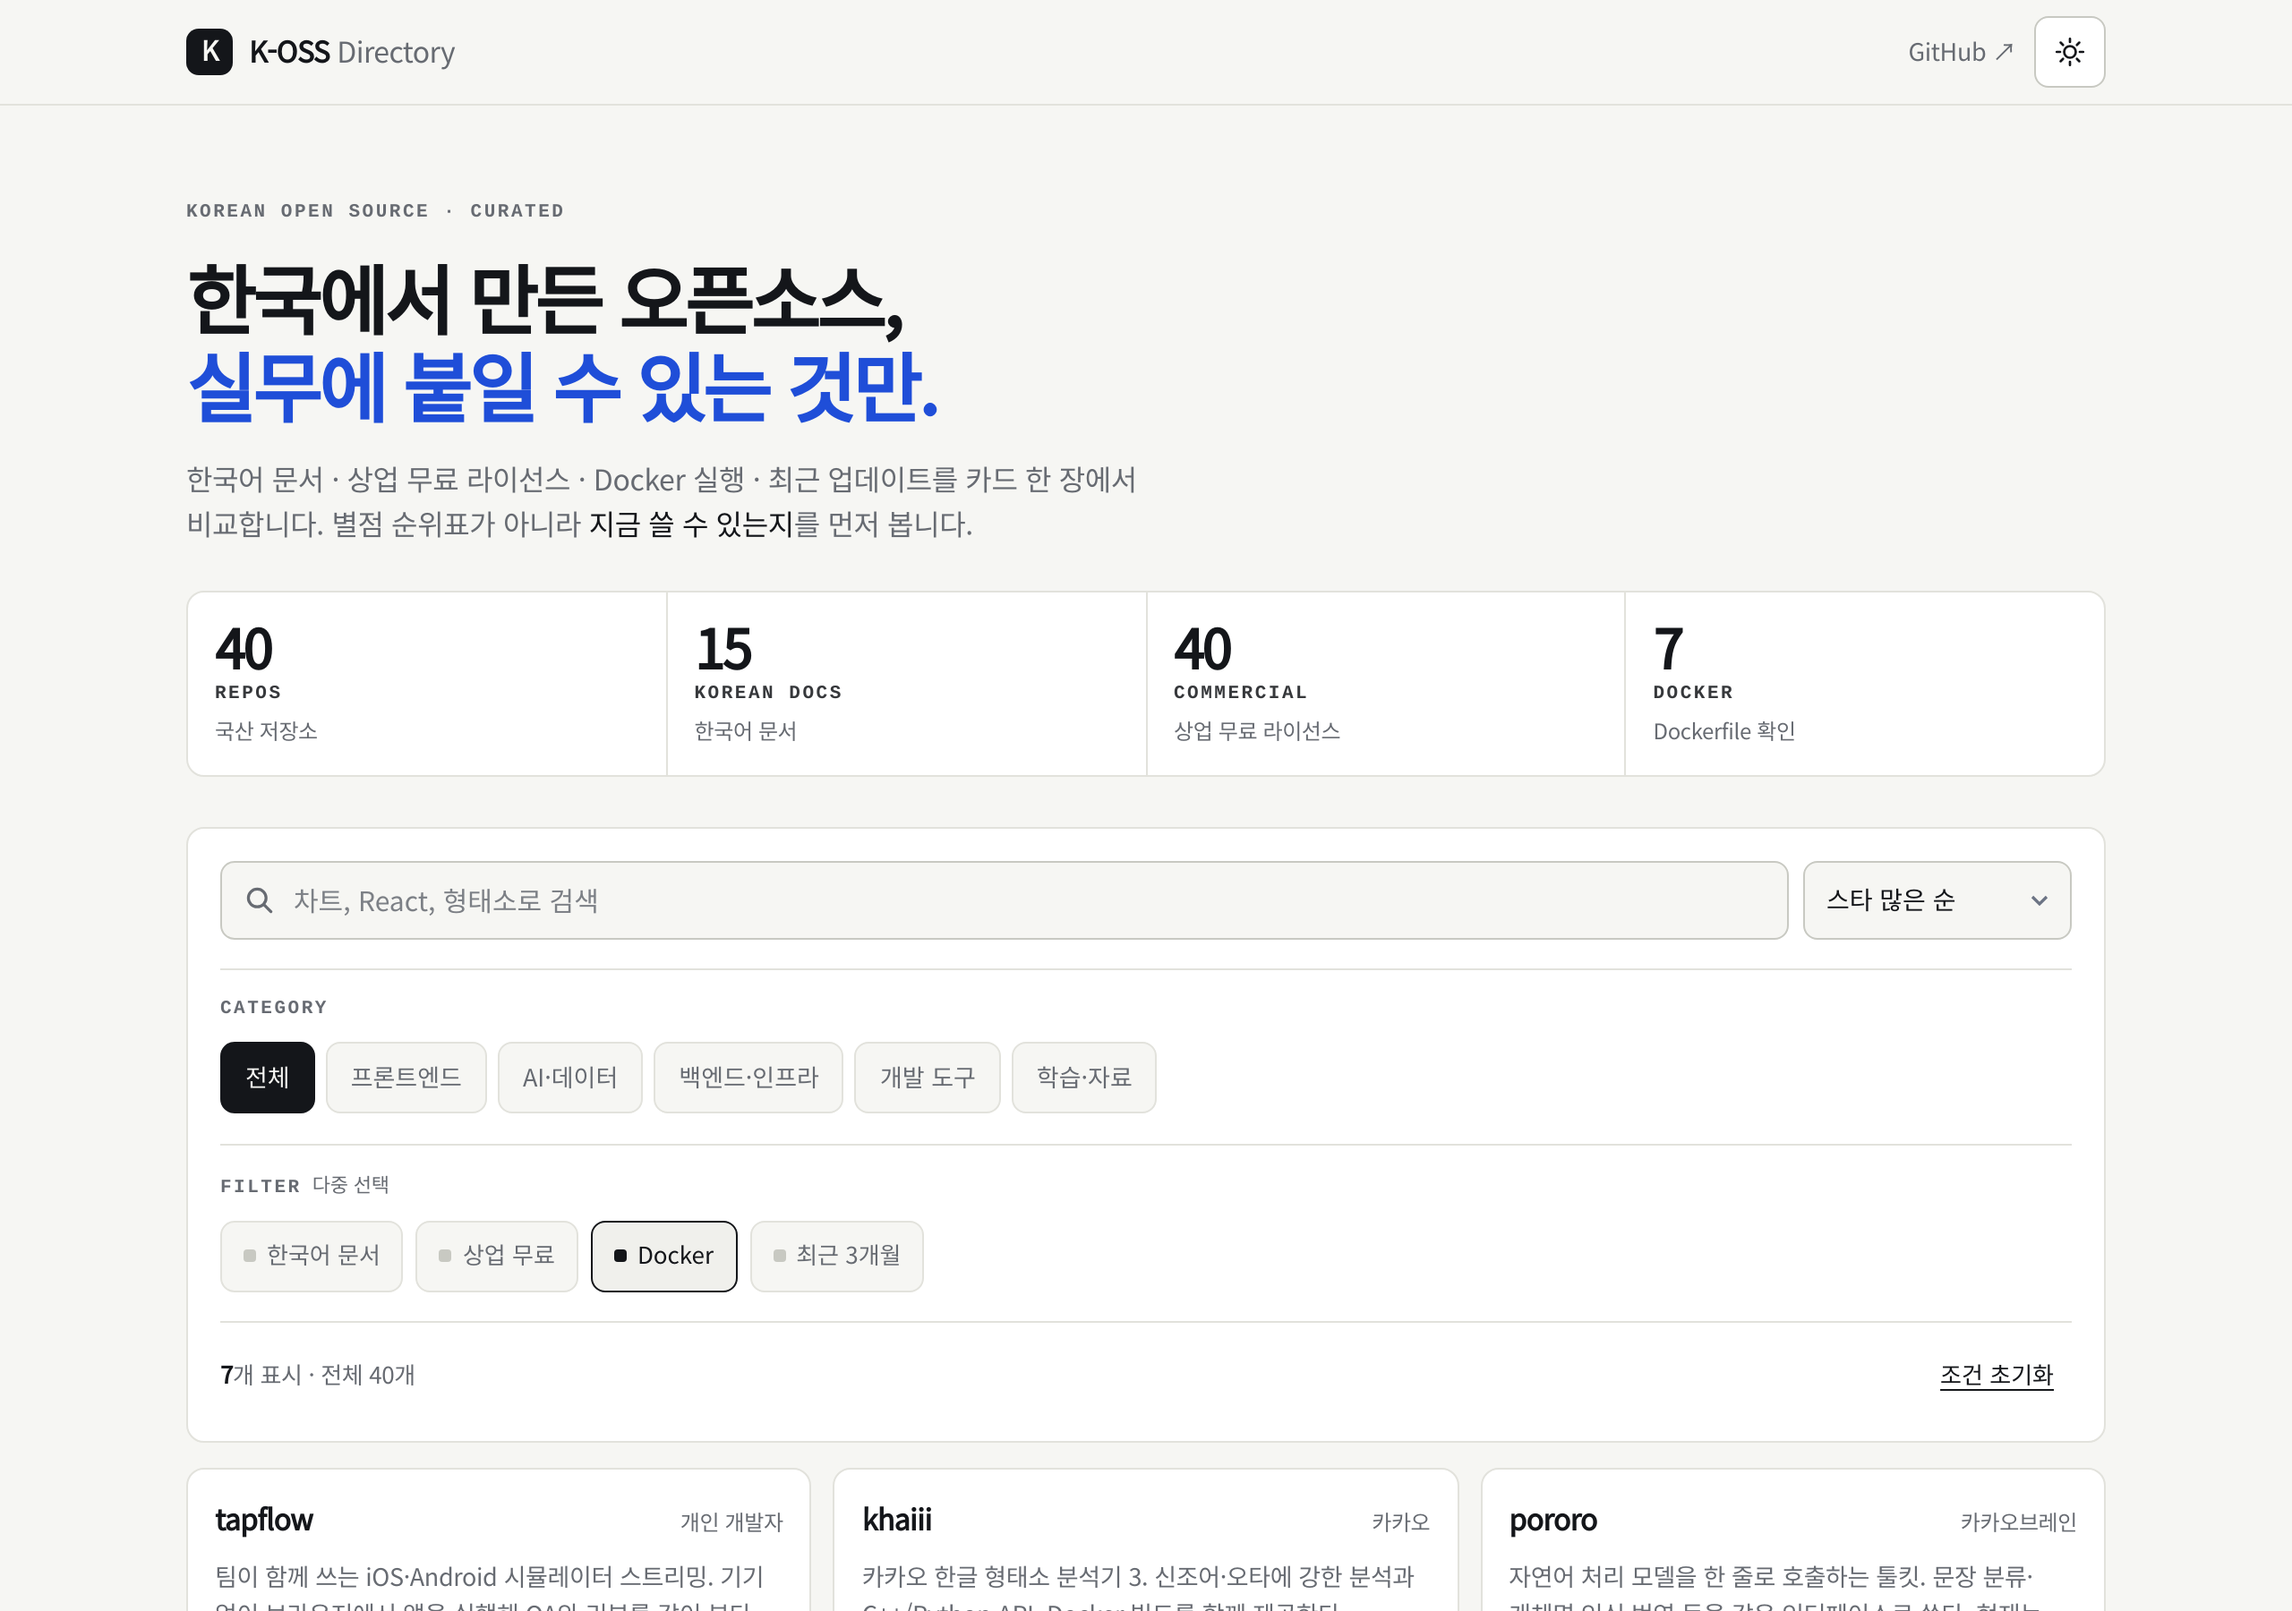
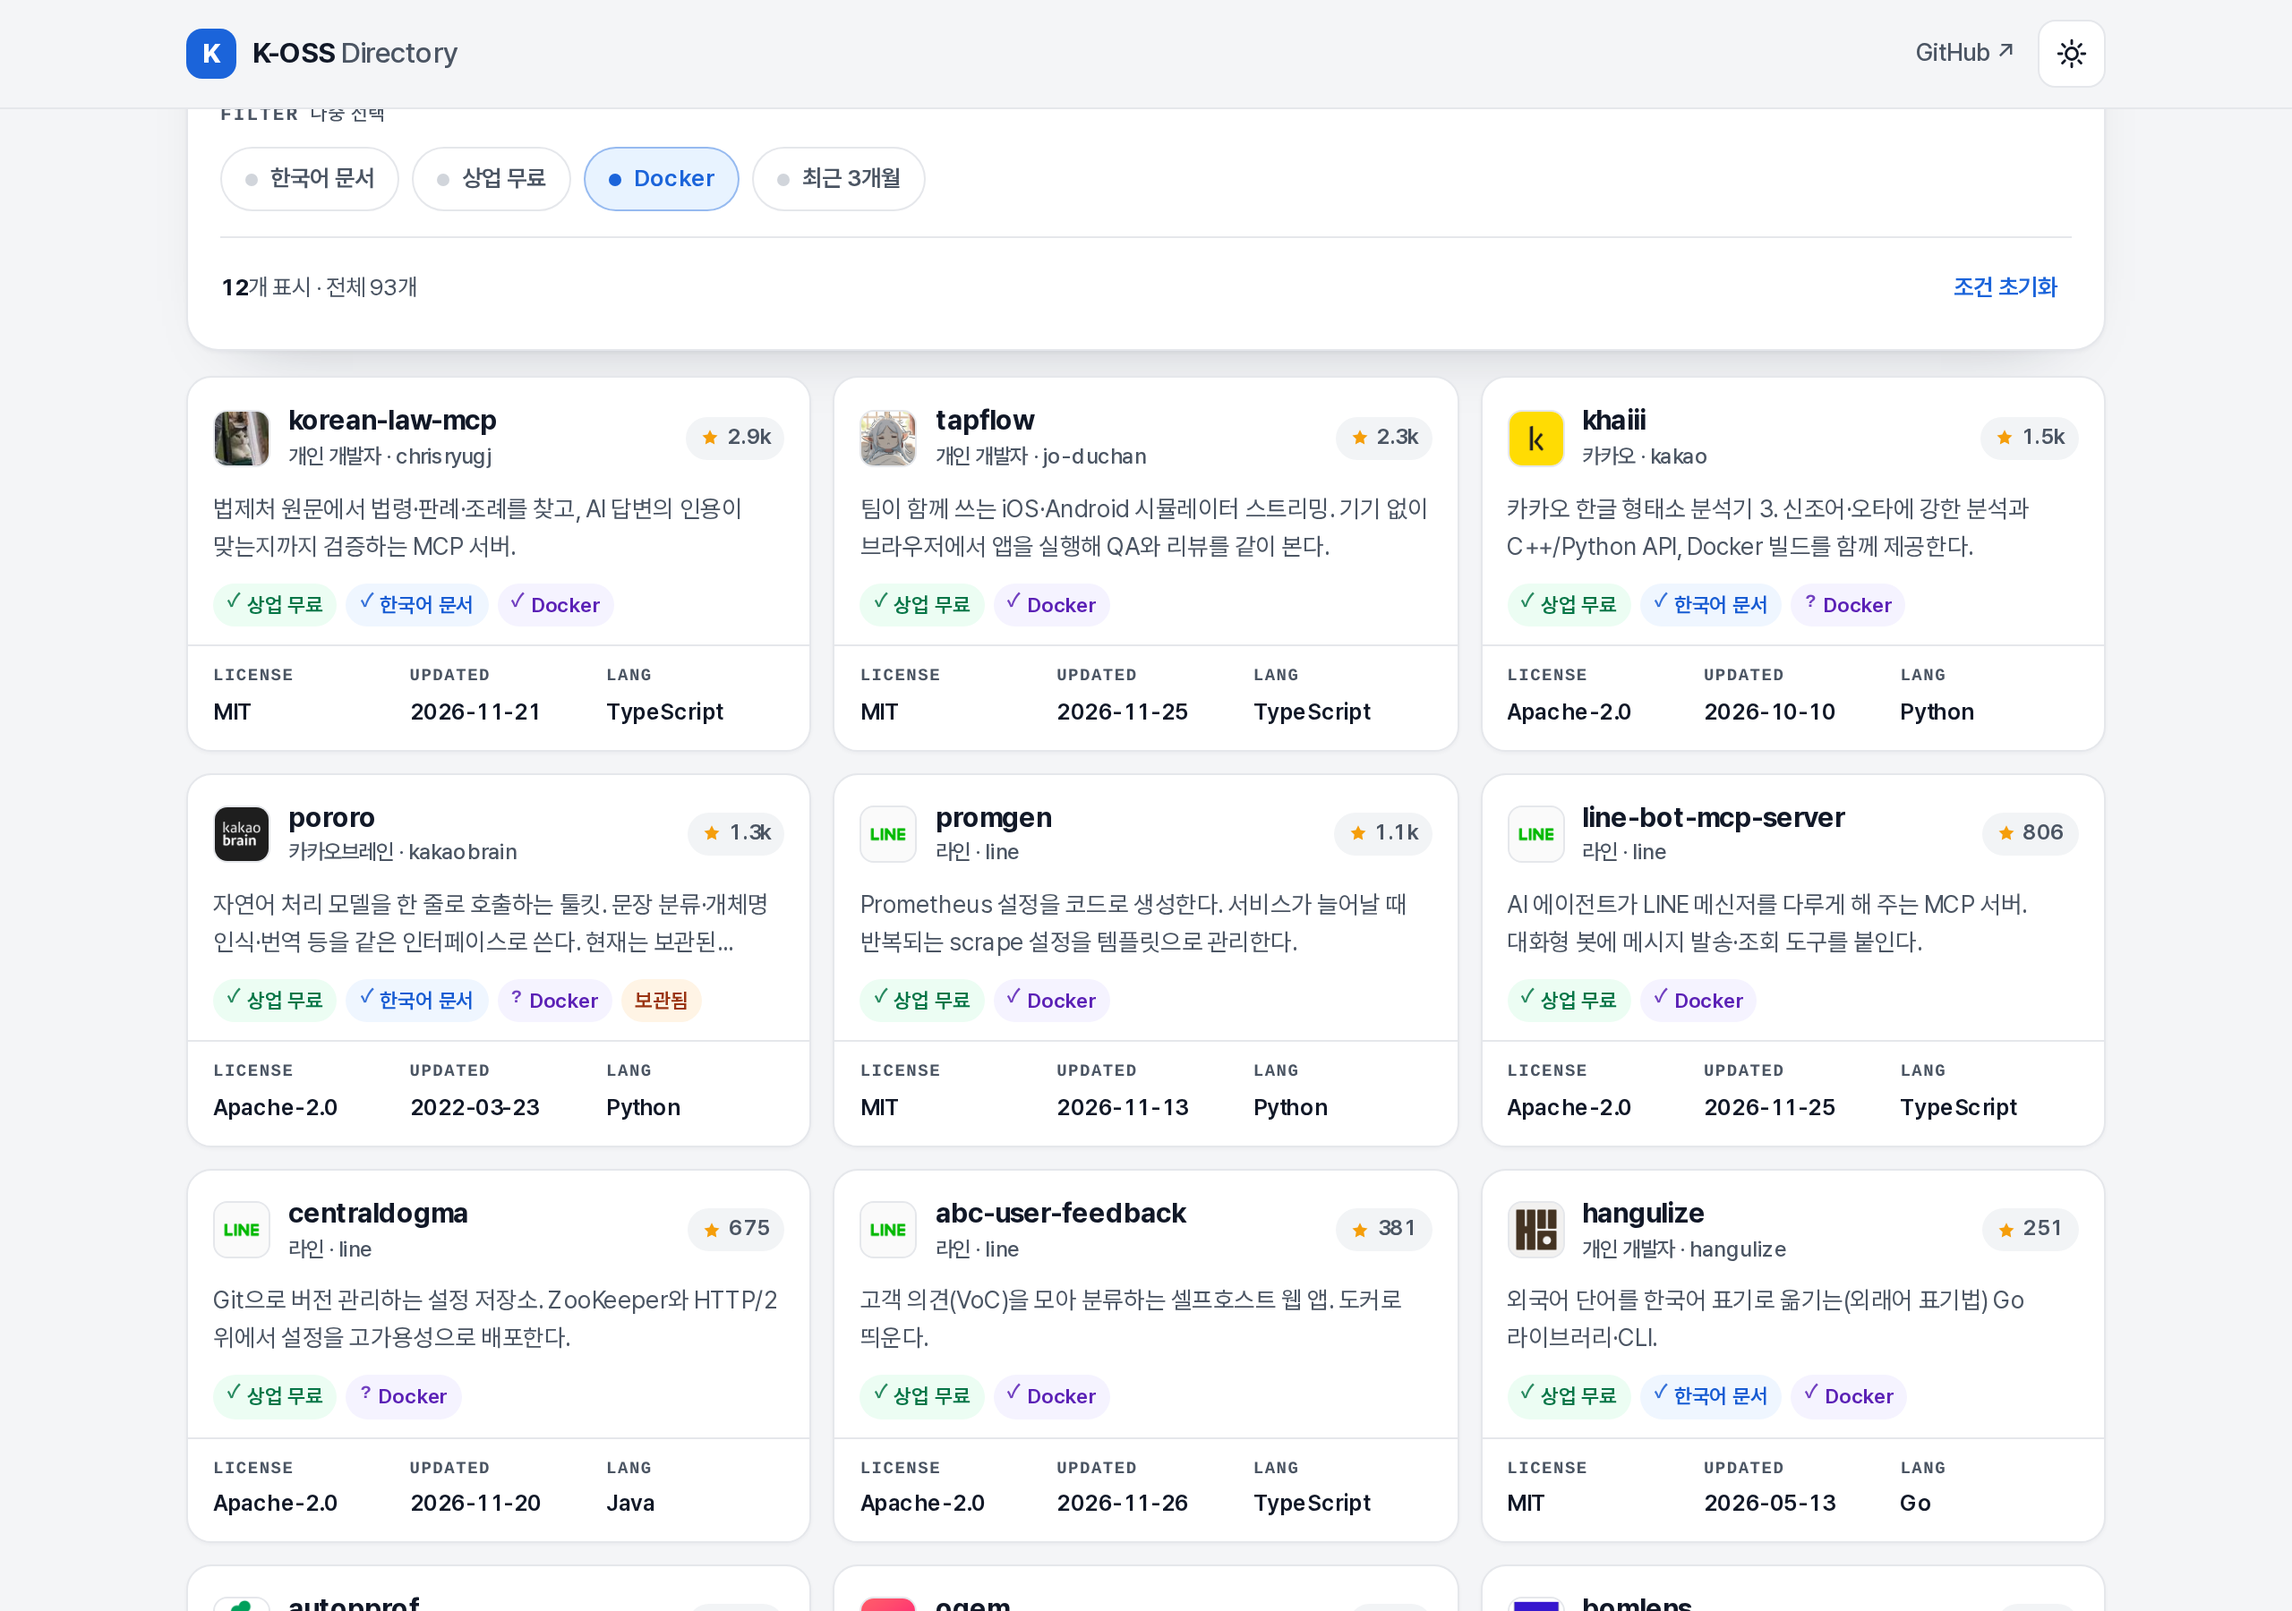
fix(ui): 테마 토글 아이콘을 "전환할 모드" 기준으로 바꾸고 문서 스크린샷을 새 UI로 교체

diff --git a/public/styles.css b/public/styles.css
@@ -255,8 +255,8 @@ a:hover {
   height: 18px;
 }
 
-:root[data-theme="light"] .icon-moon,
-:root[data-theme="dark"] .icon-sun {
+:root[data-theme="light"] .icon-sun,
+:root[data-theme="dark"] .icon-moon {
   display: none;
 }
 
